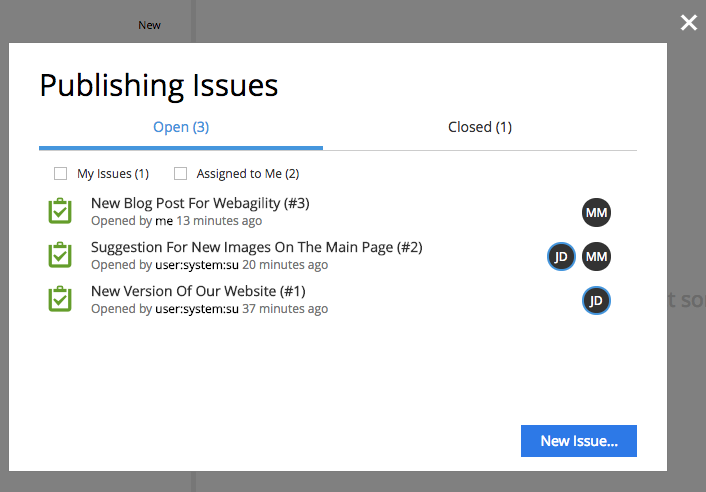
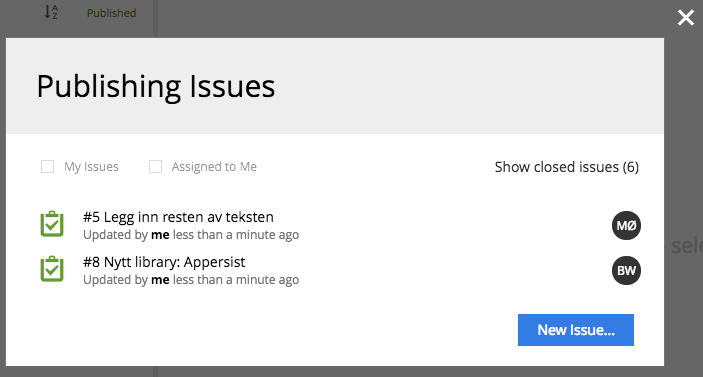
Updated documentation for Publishing issues (#95)

diff --git a/doc/admin/contentstudio/issue-details.rst b/doc/admin/contentstudio/issue-details.rst
@@ -14,6 +14,9 @@ By pressing the pencil icon next to the issue title you will switch the title to
 
 The dialog has three tabs: Comments, Items and Assignees.
 
+Comments
+--------
+
 The first tab of the Issue details dialog shows the list of comments. If the issue was created with the description it will be listed as the first comment.
 Each comment has a menu icon where you will find buttons to edit or delete the comment. You can add a new comment by typing in text into the textfield at the bottom
 of the tab and pressing the "Add Comment" button.
@@ -21,11 +24,19 @@ of the tab and pressing the "Add Comment" button.
 
 .. image:: images/issues/publishing-issues-comments.png
 
+
+Items
+-----
+
 On the second tab of the Issue details dialog you will find the list of content items and their dependencies. You can modify the list by adding new content to the issue
 or removing existing items from the issue. By clicking the "Publish & Close Issue" you will publish all of the items with dependencies and the issue will be closed. You
 can schedule publishing using the Publish button's dropdown menu.
 
 .. image:: images/issues/publishing-issues-items.png
+
+
+Assignees
+---------
 
 The "Assignees" tab shows the list of users that the issue was assigned to. Each assignee will receive an email about new comments or changes in the issue.
 

diff --git a/doc/admin/contentstudio/issue-list.rst b/doc/admin/contentstudio/issue-list.rst
@@ -5,12 +5,14 @@ Issue List
 
 .. |issueicon| image:: images/issues/icon-publishing-issues.png
 
-The list of Publishing Issues can be opened by clicking the |issueicon| icon in the top right corner of the :ref:`browse_view`.
+The list of Publishing Issues can be opened by clicking the |issueicon| icon in the Content Studio header.
 
 .. image:: images/issues/publishing-issues-list.png
 
-The list is split in two tabs: Open and Closed, with open and closed issues respectively.
-Filter on top of the list can be used to narrow down the list to only the issues assigned to you or created by you.
+Default view shows the list of open issues.
+Filter on top of the list can be used to narrow down the list to only the issues assigned to your user or created by your user. You can also
+switch to the list of closed issues by clicking the link to the right of the two checkboxes.
+If there are issues assigned to your user or issues created by your user, the filter will be automatically preset when you open the dialog.
 Black circles next to each issue indicate assignees the issue is assigned to.
 Clicking an issue will open the :ref:`issue_details` dialog.
-"New Issue" button opens the :ref:`New Issue dialog <issue_create>`.
+"**New Issue**" button opens the :ref:`New Issue dialog <issue_create>`.

diff --git a/doc/admin/contentstudio/publishing-issues.rst b/doc/admin/contentstudio/publishing-issues.rst
@@ -7,12 +7,13 @@ Publishing Issues
 .. |notificationicon| image:: images/issues/icon-issue-notification.png
 
 **Publishing Issues** is a way to create, delegate and follow up tasks for publishing one or several content items.
-The list of publishing issues can be open by clicking |issueicon| icon in the top right corner of the :ref:`browse_view`.
+The list of publishing issues can be open by clicking |issueicon| icon in the Content Studio header.
 A new issue can be created either from the Issue List dialog, :ref:`publish_wizard` or from the Publish button's menu in the Browse view's :ref:`toolbar_browse`.
 
 .. image:: images/issues/publishing-issues-list.png
 
 If current user has any open issues assigned to him this will be reflected on the Issue icon: |notificationicon|.
+
 
 .. toctree::
    :maxdepth: 1
@@ -21,3 +22,9 @@ If current user has any open issues assigned to him this will be reflected on th
    issue-list
    issue-details
    issue-status
+
+
+.. TIP::
+   When content is selected in the grid, menu of the Publish button will show the list of open issues this content is a part of.
+
+.. image:: images/issues/publish-menu-issues.png

diff --git a/doc/admin/contentstudio/preview-panel.rst b/doc/admin/contentstudio/preview-panel.rst
@@ -10,3 +10,8 @@ panel is replaced with a list of all selected content items. If preview is for s
 
 .. NOTE::
    Only the **Draft** version of content is visible in the preview panel.
+
+Preview panel has a toolbar which shows status and last modifier of the content, as well as the list of open publishing issues the content is currently a part of. The newest issue
+is shown by default and the entire list can be expanded via dropdown. Clicking on the issue name will open the :ref:`issue_details` dialog.
+
+.. image:: images/preview-toolbar.png

diff --git a/doc/admin/contentstudio/issue-create.rst b/doc/admin/contentstudio/issue-create.rst
@@ -12,7 +12,7 @@ There are several ways to create a new issue.
 From the Issue List dialog
 --------------------------
 
-Click the |issueicon| icon in the top right corner of the :ref:`browse_view`. This will open a dialog with the :ref:`issue_list`.
+Click the |issueicon| icon in the Content Studio header to open the :ref:`issue_list` dialog.
 
 .. image:: images/issues/publishing-issues-list-empty.png
 
